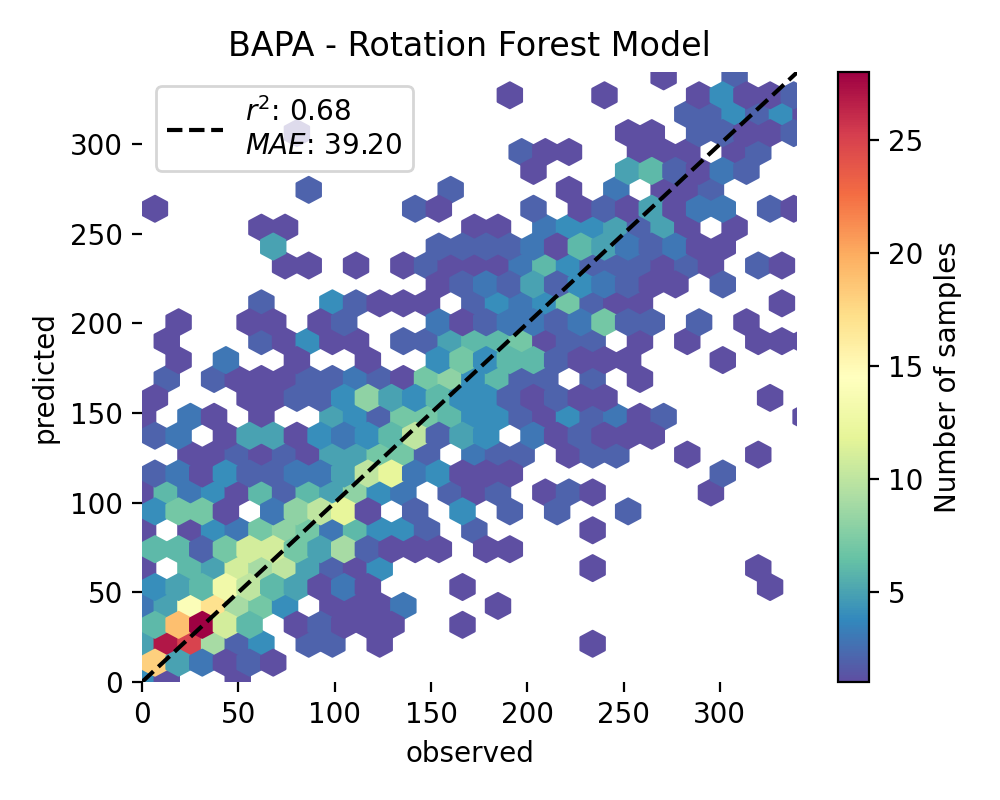
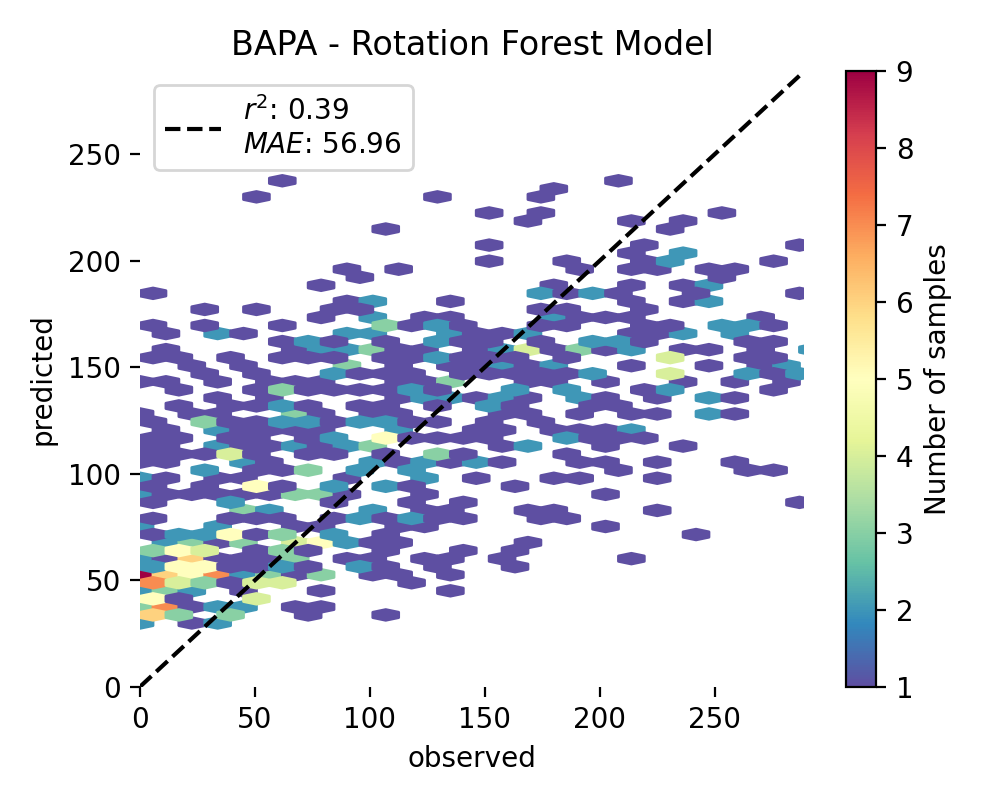
last update before docker refactor

diff --git a/python/train-apply-rotation-forest.py b/python/train-apply-rotation-forest.py
@@ -29,10 +29,10 @@ gdal.UseExceptions()
 this_dir, this_script = os.path.split(os.path.abspath(__file__))
 data = os.path.join(this_dir, "..", "data")
 plots = os.path.join(this_dir, "..", "docs", "img")
-training = os.path.join(data, "fia_calif_plot_level_climate_model.csv")
+training = os.path.join(data, "fia_calif_plot_level_climate_model_liveOnly.csv")
 
 # veg data
-v_metrics = ["CC", "CH", "LF", "LC"]
+v_metrics = ["CC", "CH", "LC", "LF"]
 moments = ["MN", "VA", "SK", "KU"]
 v_labels = []
 for metric in v_metrics:
@@ -117,7 +117,6 @@ if not os.path.exists(veg_vrt):
         bounds = src.bounds
 
     vrt_options = gdal.BuildVRTOptions(separate=True, outputBounds=bounds)
-
     vrt = gdal.BuildVRT(veg_vrt, vegs, options=vrt_options)
     vrt.FlushCache()
 
@@ -156,17 +155,17 @@ transformer = PCA(whiten=True)
 xt = transformer.fit_transform(x)
 
 # train test split
-xtrain, xtest, ytrain, ytest = train_test_split(xt, y, train_size=0.7)
+xtrain, xtest, ytrain, ytest = train_test_split(x, y, train_size=0.7)
 ymax = np.percentile(y, 95)
 
 # model tuning
 tuner = giants.model.Tuner(xtrain, ytrain)
-tuner.GradientBoostingRegressor()
+tuner.GradientBoostingRegressor(scorer="r2")
 model = tuner.best_estimator
 
 ##########
 # model training
-"""
+
 model_path = os.path.join(data, f"{yvar}.pck")
 if os.path.exists(model_path) and not rerun_models:
     with open(model_path, "rb") as inf:
@@ -191,7 +190,6 @@ else:
     # save it
     with open(model_path, "wb") as out:
         pickle.dump(model, out)
-"""
 
 # run performance the numbers
 ypred = model.predict(xtest)
